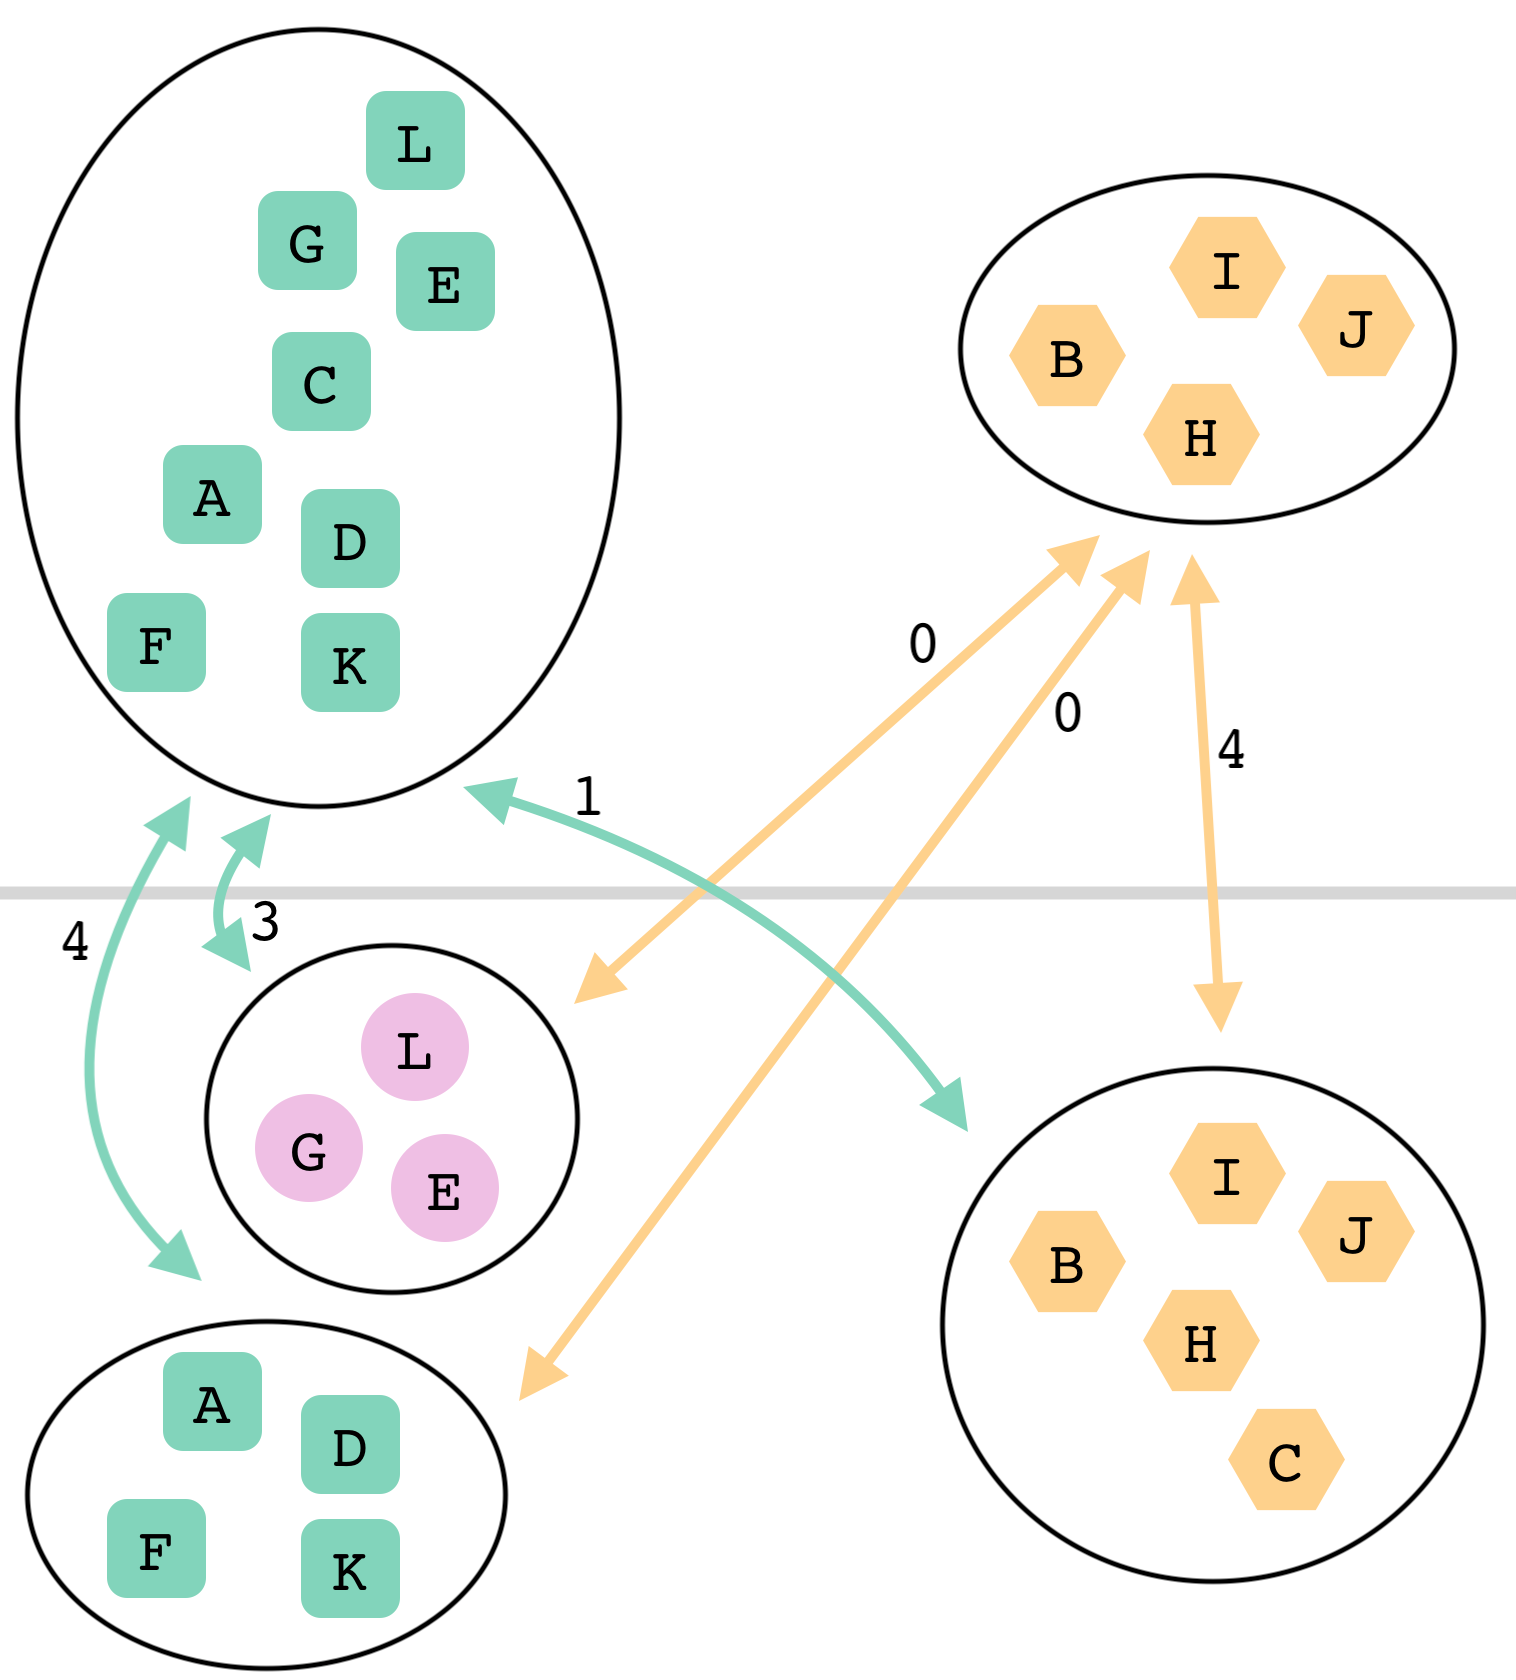
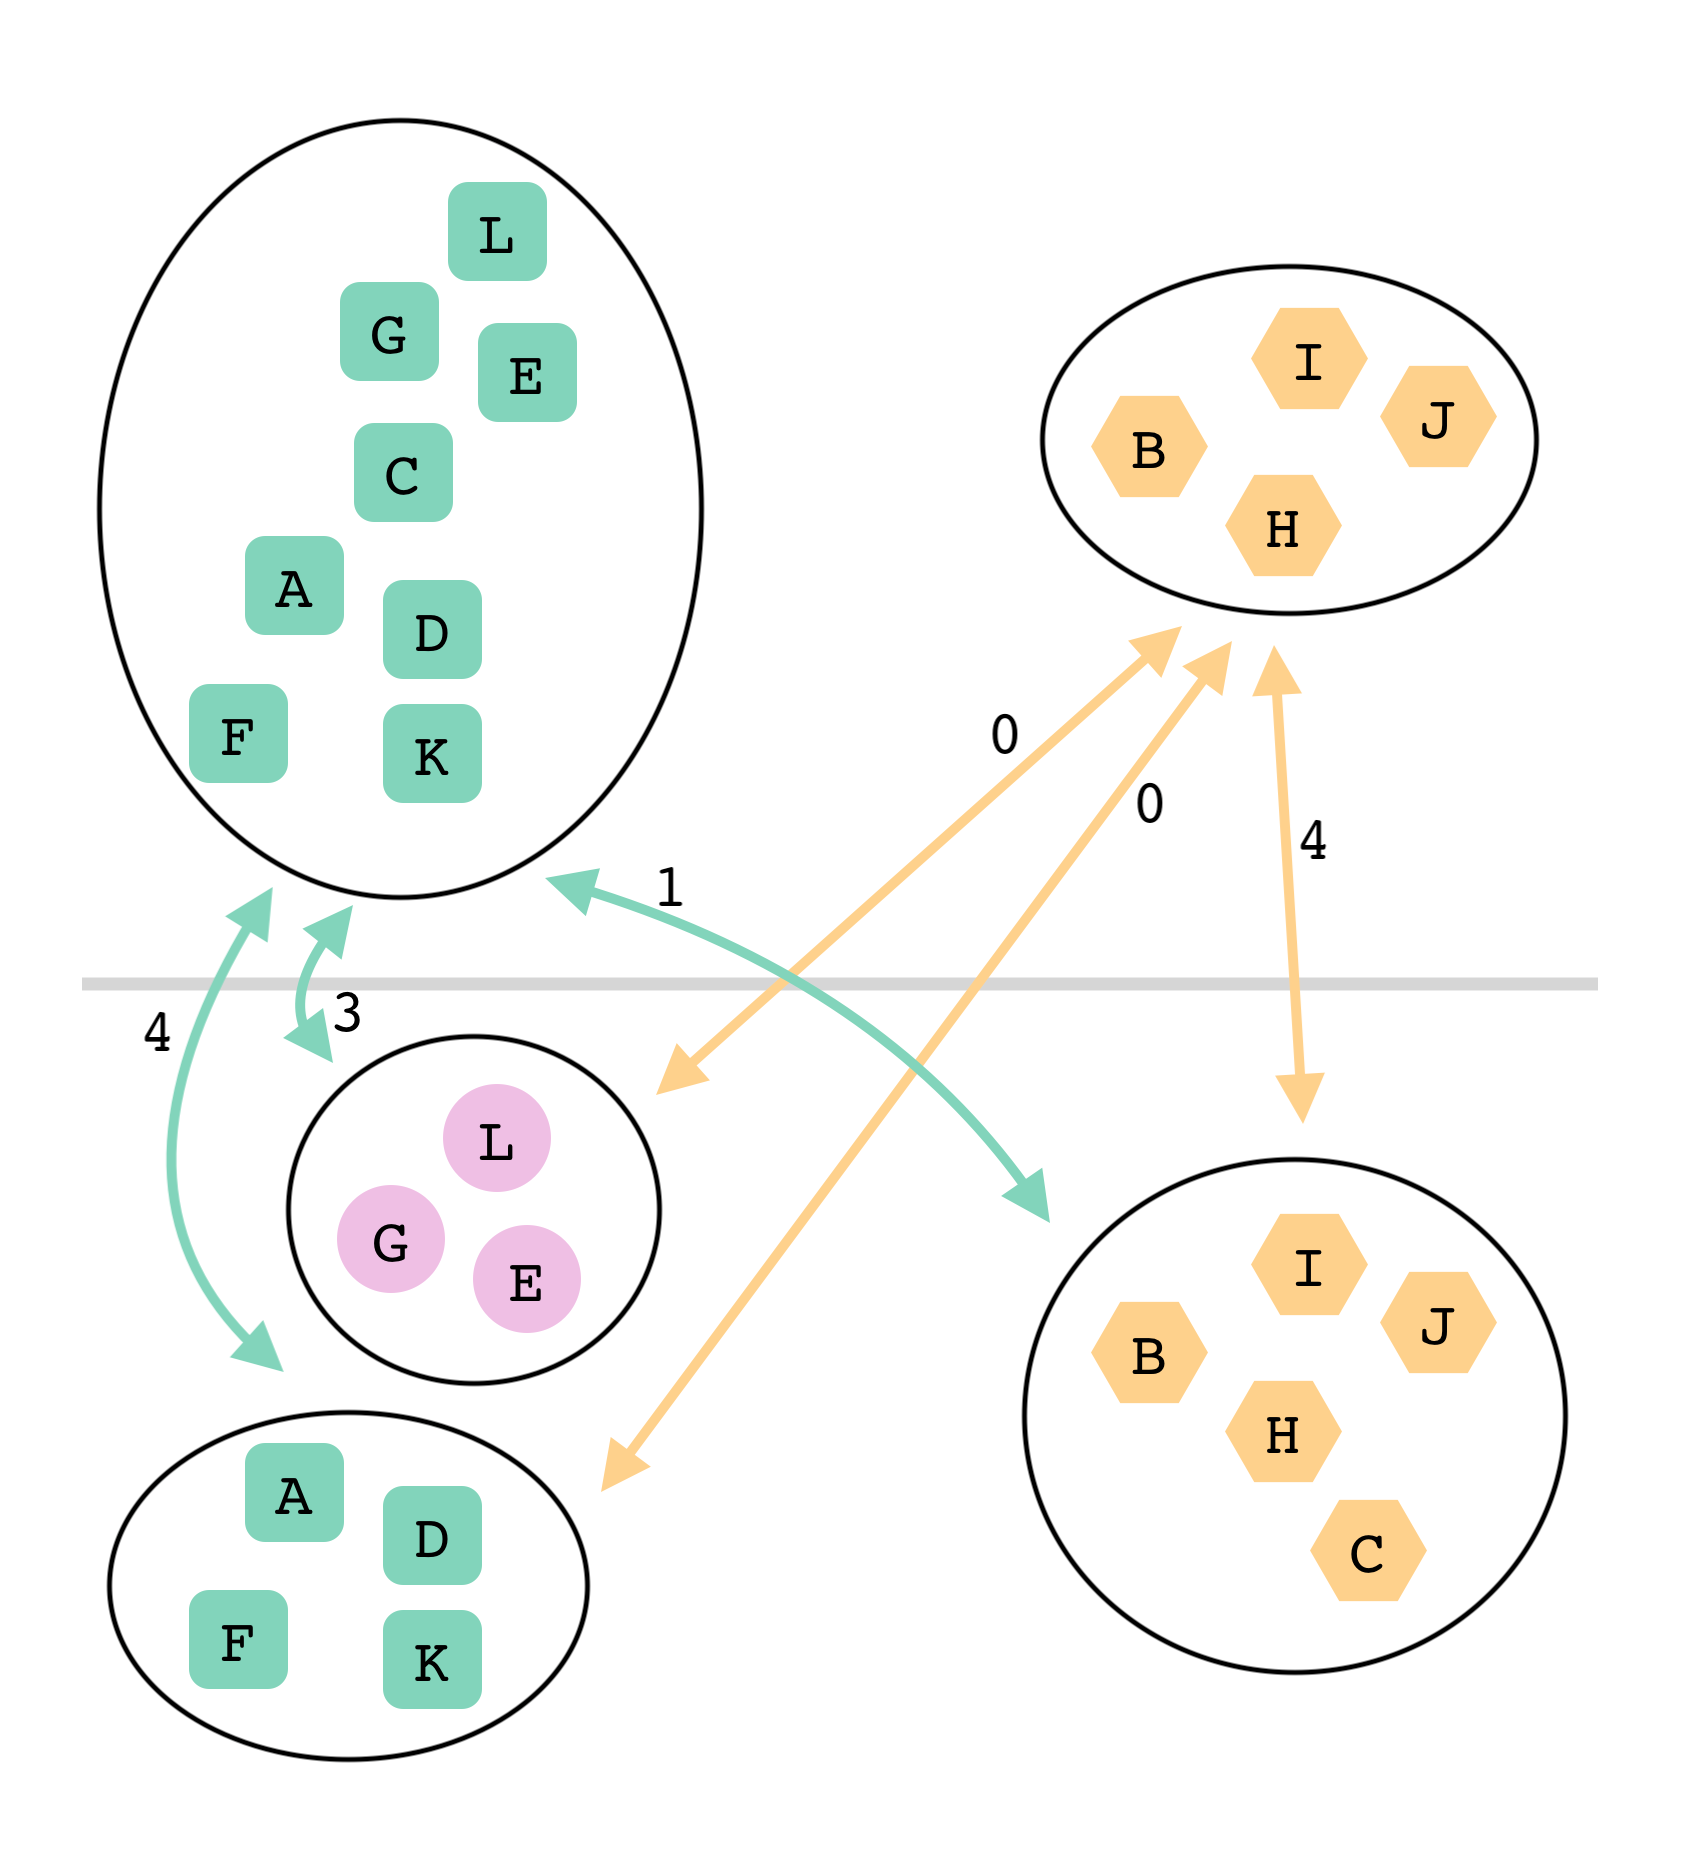
add todos

diff --git a/src/posts/2023-04-11-assignment-problem/tables.module.css b/src/posts/2023-04-11-assignment-problem/tables.module.css
@@ -14,15 +14,15 @@
 }
 
 .colorTable .green {
-  background-color: #b5fbd9;
+  background-color: #80d4bb;
 }
 
 .colorTable .orange {
-  background-color: #ffe07a;
+  background-color: #fed18c;
 }
 
 .colorTable .purple {
-  background-color: #e0daff;
+  background-color: #efbfe4;
 }
 
 /* probably should make these theme color variables so we don't have to manually adjust for dark mode, if I end up using them in more posts */
